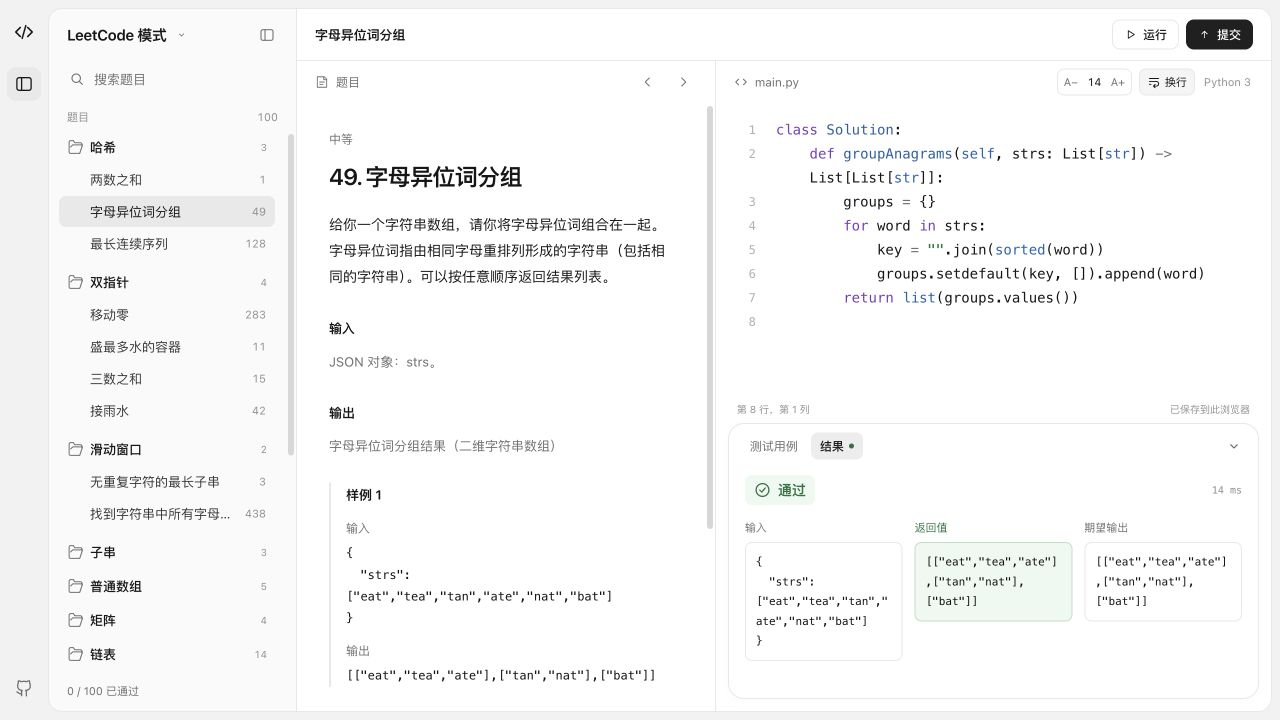
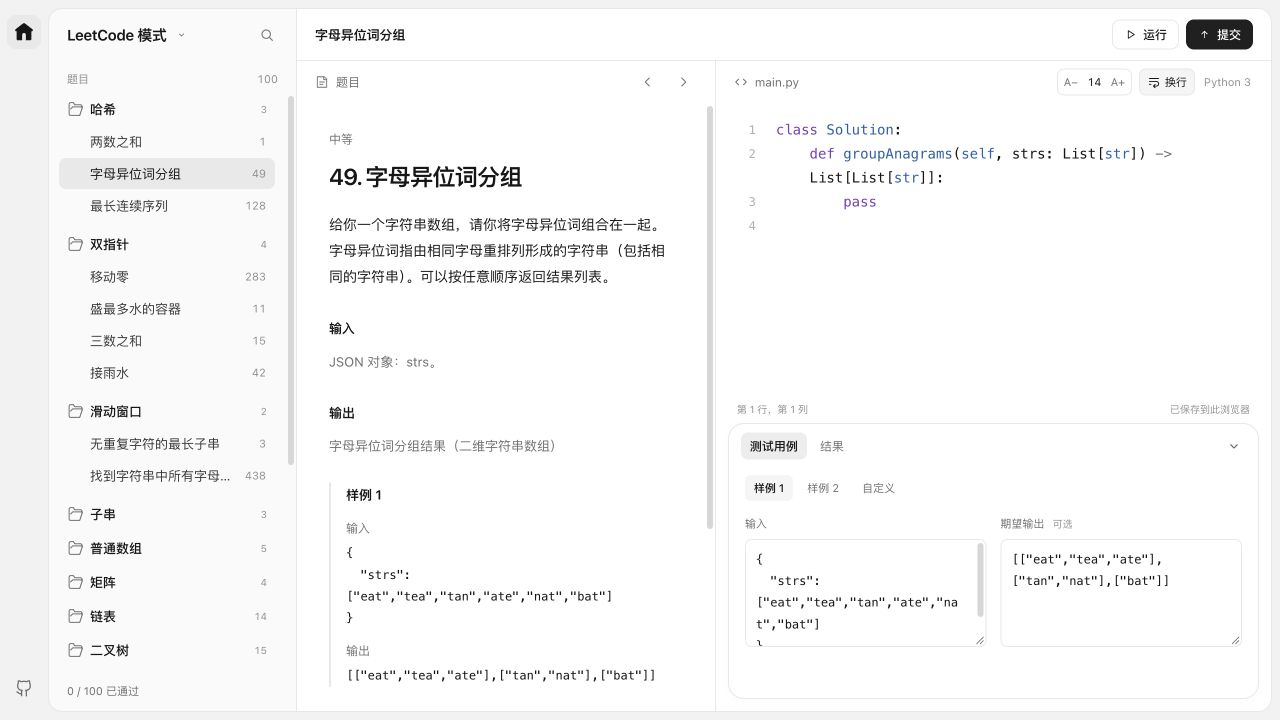
Update Site source

diff --git a/dist/app.js b/dist/app.js
@@ -110,10 +110,9 @@ initLayout({ read, save, mobileLayout, refreshEditor: () => editor.refresh() });
 function syncSidebar() {
   const open = mobileLayout.matches ? $('appShell').classList.contains('sidebar-open') : !$('appShell').classList.contains('sidebar-collapsed');
   const sidebar = $('sidebar');
-  if (!open && sidebar.contains(document.activeElement)) (mobileLayout.matches ? $('openSidebar') : $('railToggle')).focus();
+  if (!open && sidebar.contains(document.activeElement)) (mobileLayout.matches ? $('openSidebar') : $('homeButton')).focus();
   sidebar.inert = !open;
   sidebar.setAttribute('aria-hidden', String(!open));
-  $('railToggle').setAttribute('aria-expanded', String(open));
   $('openSidebar').setAttribute('aria-expanded', String(open));
   if (!open) closeModeMenu();
 }
@@ -125,6 +124,20 @@ function setSidebar(open) {
   }
   syncSidebar();
   if (matchMedia('(prefers-reduced-motion: reduce)').matches) editor.refresh();
+}
+function setSearchOpen(open, restoreFocus = false) {
+  if (!open && (restoreFocus || $('searchField').contains(document.activeElement))) $('searchButton').focus();
+  $('searchField').hidden = !open;
+  $('searchButton').setAttribute('aria-expanded', String(open));
+  if (open) {
+    closeModeMenu();
+    $('searchInput').focus();
+  } else if ($('searchInput').value) {
+    $('searchInput').value = '';
+    searchCollapsedGroups.clear();
+    renderList();
+    requestAnimationFrame(revealCurrentProblem);
+  }
 }
 function clearErrorLine() {
   if (state.errorLine !== null) editor.removeLineClass(state.errorLine, 'background', 'code-error-line');
@@ -203,7 +216,13 @@ function revealCurrentProblem() {
   else if (inner.bottom > outer.bottom) list.scrollTop += inner.bottom - outer.bottom;
 }
 function selectProblem(id, force = false) {
-  const base = state.problems.find(x => x.id === Number(id)); if (!base || (!force && state.current?.id === base.id)) return;
+  const base = state.problems.find(x => x.id === Number(id));
+  if (!base) return;
+  if (!force && state.current?.id === base.id) {
+    setSearchOpen(false);
+    if (mobileLayout.matches) setSidebar(false);
+    return;
+  }
   const p = state.mode === 'leetcode' ? getLeetCodeProblem(base) : base;
   if (state.current) persistCode();
   if (state.busy) stop();
@@ -224,7 +243,10 @@ function selectProblem(id, force = false) {
   const url = new URL(location.href); url.searchParams.set('problem', p.id); url.searchParams.set('mode', state.mode); history.replaceState(null, '', url);
   document.title = `${p.title} · Hot 100`;
   $('workspaceTitle').textContent = p.title;
-  if (!force && mobileLayout.matches) setSidebar(false);
+  if (!force) {
+    setSearchOpen(false);
+    if (mobileLayout.matches) setSidebar(false);
+  }
   requestAnimationFrame(() => { editor.refresh(); revealCurrentProblem(); });
 }
 function renderCaseTabs() {
@@ -334,6 +356,13 @@ $('searchInput').addEventListener('input', () => {
   searchCollapsedGroups.clear(); renderList();
   if (!$('searchInput').value.trim()) requestAnimationFrame(revealCurrentProblem);
 });
+$('searchButton').addEventListener('click', () => setSearchOpen($('searchField').hidden, true));
+$('homeButton').addEventListener('click', () => {
+  closeModeMenu();
+  setSearchOpen(false);
+  setSidebar(true);
+  requestAnimationFrame(() => { $('problemList').scrollTop = 0; });
+});
 $('fontDecrease').addEventListener('click', () => changeEditorFont(-1));
 $('fontIncrease').addEventListener('click', () => changeEditorFont(1));
 $('wrapCode').addEventListener('click', () => { wrapCode = !wrapCode; save('leetcode:wrapCode', String(wrapCode)); applyEditorPreferences(); });
@@ -362,8 +391,6 @@ $('runButton').addEventListener('click', () => execute(false)); $('submitButton'
 $('inputTab').addEventListener('click', () => { setTab('input'); expandPanel(); }); $('resultTab').addEventListener('click', () => { setTab('result'); expandPanel(); });
 $('prevProblem').addEventListener('click', () => selectProblem(state.problems[state.problems.findIndex(p => p.id === state.current.id) - 1]?.id));
 $('nextProblem').addEventListener('click', () => selectProblem(state.problems[state.problems.findIndex(p => p.id === state.current.id) + 1]?.id));
-$('railToggle').addEventListener('click', () => setSidebar($('appShell').classList.contains('sidebar-collapsed')));
-$('closeSidebar').addEventListener('click', () => setSidebar(false));
 $('openSidebar').addEventListener('click', () => setSidebar(true));
 $('sidebarBackdrop').addEventListener('click', () => setSidebar(false));
 $('panelToggle').addEventListener('click', () => {
@@ -377,7 +404,14 @@ $('panelResizer').addEventListener('pointerup', () => { drag = null; });
 $('panelResizer').addEventListener('pointercancel', () => { drag = null; });
 $('panelResizer').addEventListener('keydown', e => { if (['ArrowUp', 'ArrowDown'].includes(e.key)) { e.preventDefault(); expandPanel(); setPanelHeight($('testPanel').getBoundingClientRect().height + (e.key === 'ArrowUp' ? 24 : -24)); } });
 function setPanelHeight(value) { const height = Math.max(180, Math.min(value, Math.max(200, innerHeight - 240))); $('testPanel').style.setProperty('--panel-height', `${height}px`); editor.refresh(); }
-document.addEventListener('keydown', e => { if (e.key === 'Escape') { closeModeMenu(true); if (mobileLayout.matches) setSidebar(false); } if ((e.metaKey || e.ctrlKey) && e.key === 's') { e.preventDefault(); persistCode(); } });
+document.addEventListener('keydown', e => {
+  if (e.key === 'Escape') {
+    if (!$('modeMenu').hidden) closeModeMenu(true);
+    else if (!$('searchField').hidden) setSearchOpen(false, true);
+    else if (mobileLayout.matches) setSidebar(false);
+  }
+  if ((e.metaKey || e.ctrlKey) && e.key === 's') { e.preventDefault(); persistCode(); }
+});
 window.addEventListener('resize', () => { syncSidebar(); editor.refresh(); });
 $('appShell').addEventListener('transitionend', e => { if (e.target === $('appShell') && e.propertyName === 'grid-template-columns') editor.refresh(); });
 

diff --git a/dist/styles.css b/dist/styles.css
@@ -57,21 +57,16 @@ button svg, .icon-button svg { width: 16px; height: 16px; flex: none; stroke-wid
 .statement-resizer { top: 0; bottom: 0; left: var(--statement-width, 43%); }
 .sidebar-collapsed .sidebar-resizer { display: none; }
 .app-rail { display: flex; flex-direction: column; align-items: center; gap: 9px; padding: 7px 0; color: var(--secondary); }
-.rail-brand { display: flex; align-items: center; justify-content: center; width: 34px; height: 34px; margin-bottom: 9px; color: var(--text); }
-.rail-brand svg { width: 22px; height: 22px; stroke-width: 1.65; }
 .app-rail .icon-button, .rail-github { display: flex; align-items: center; justify-content: center; width: 34px; height: 34px; border-radius: 9px; color: var(--secondary); text-decoration: none; }
 .app-rail .icon-button svg, .rail-github svg { width: 19px; height: 19px; stroke-width: 1.65; }
 .app-rail .icon-button:hover, .rail-github:hover { color: var(--text); background: var(--hover); }
-.app-rail .icon-button[aria-expanded="true"] { color: var(--text); background: var(--selected); }
-.app-shell:not(.sidebar-collapsed) .rail-toggle { color: var(--text); background: var(--selected); }
+.app-rail .rail-home[aria-current="page"] { color: var(--text); background: var(--selected); }
+.app-rail .rail-home svg { width: 22px; height: 22px; fill: currentColor; stroke: none; }
 .rail-github { margin-top: auto; }
 .sidebar { position: relative; min-width: 0; display: flex; flex-direction: column; overflow: hidden; background: var(--sidebar); border: 1px solid var(--line); border-right: 0; border-radius: 14px 0 0 14px; }
 .sidebar > * { flex-shrink: 0; transition: opacity 180ms ease, transform var(--sidebar-duration) var(--sidebar-easing); }
 .sidebar-head, .sidebar-section-label, .problem-list, .sidebar-footer { width: calc(var(--sidebar-width) - 1px); }
 .sidebar-head { height: 52px; min-height: 52px; display: flex; align-items: center; gap: 8px; padding: 0 15px 0 18px; }
-.brand-mark { display: inline-flex; align-items: center; justify-content: center; width: 21px; height: 24px; color: var(--text); }
-.brand-mark svg { width: 19px; height: 19px; stroke-width: 1.6; }
-.brand-name { font-size: 15px; font-weight: 600; letter-spacing: -.25px; }
 .sidebar-head { position: relative; z-index: 2; }
 .mode-switch { position: relative; min-width: 0; flex: 1; margin-left: -7px; }
 .mode-button { display: inline-flex; align-items: center; gap: 8px; max-width: 100%; min-height: 32px; padding: 5px 7px; border: 0; border-radius: 7px; color: var(--text); background: transparent; font-size: 15px; font-weight: 600; letter-spacing: -.25px; white-space: nowrap; transition: background .12s; }
@@ -87,13 +82,15 @@ button svg, .icon-button svg { width: 16px; height: 16px; flex: none; stroke-wid
 .sidebar-head .icon-button { flex: none; margin-left: auto; }
 .icon-button { display: inline-flex; align-items: center; justify-content: center; gap: 5px; width: 28px; height: 28px; padding: 6px; border: 0; border-radius: 7px; color: var(--secondary); background: transparent; transition: background .12s, color .12s; }
 .icon-button:hover { color: var(--text); background: var(--hover); }
-.search-field { display: flex; align-items: center; gap: 9px; width: calc(var(--sidebar-width) - 21px); height: 32px; min-height: 32px; margin: 2px 10px 12px; padding: 0 9px; border: 1px solid transparent; border-radius: 7px; color: var(--secondary); background: transparent; transition: background .12s, opacity 180ms ease, transform var(--sidebar-duration) var(--sidebar-easing); }
+#searchButton[aria-expanded="true"] { color: var(--text); background: var(--selected); }
+.search-field { display: flex; align-items: center; gap: 9px; width: calc(var(--sidebar-width) - 21px); height: 32px; min-height: 32px; margin: 2px 10px 8px; padding: 0 9px; border: 1px solid transparent; border-radius: 7px; color: var(--secondary); background: transparent; transition: background .12s, opacity 180ms ease, transform var(--sidebar-duration) var(--sidebar-easing); }
 .search-field:hover, .search-field:focus-within { background: var(--hover); }
 .search-field svg { width: 16px; height: 16px; stroke-width: 1.65; flex: none; }
 .search-field input { width: 100%; min-width: 0; padding: 0; border: 0; outline: 0; color: var(--text); background: transparent; font-size: 13px; }
 .search-field input:focus-visible { outline: 0; }
 .search-field input::placeholder { color: var(--secondary); opacity: 1; }
 .sidebar-section-label { display: flex; align-items: center; justify-content: space-between; gap: 12px; padding: 0 18px 4px; color: var(--muted); font-size: 11px; line-height: 20px; }
+.search-field[hidden] + .sidebar-section-label { padding-top: 8px; }
 .sidebar-section-label span { font-size: 11px; font-variant-numeric: tabular-nums; }
 .problem-list { flex: 1; min-height: 0; overflow: auto; padding: 0 10px 12px; }
 .problem-group + .problem-group { margin-top: 2px; }

diff --git a/dist/index.html b/dist/index.html
@@ -8,13 +8,12 @@
   <title>Hot 100</title>
   <link rel="icon" href="./favicon.svg" type="image/svg+xml">
   <link rel="stylesheet" href="./vendor/codemirror/lib/codemirror.css">
-  <link rel="stylesheet" href="./styles.css?v=5">
+  <link rel="stylesheet" href="./styles.css?v=6">
 </head>
 <body>
   <div class="app-shell" id="appShell">
     <nav class="app-rail" aria-label="导航">
-      <div class="rail-brand" aria-hidden="true"><svg viewBox="0 0 24 24"><path d="m8 7-5 5 5 5m8-10 5 5-5 5M14 5l-4 14"/></svg></div>
-      <button class="icon-button rail-toggle" id="railToggle" aria-label="切换题目列表" title="题目列表"><svg viewBox="0 0 24 24"><rect x="3" y="4" width="18" height="16" rx="3"/><path d="M9 4v16"/></svg></button>
+      <button class="icon-button rail-home" id="homeButton" aria-label="主页" aria-current="page" title="主页"><svg viewBox="0 0 24 24" aria-hidden="true"><path d="M10.8 2.8a2 2 0 0 1 2.4 0l8 6.2a1.25 1.25 0 0 1-.77 2.24H20V20a1 1 0 0 1-1 1h-5v-6a2 2 0 0 0-4 0v6H5a1 1 0 0 1-1-1v-8.76h-.43A1.25 1.25 0 0 1 2.8 9Z"/></svg></button>
       <a class="rail-github" id="repoLink" href="https://github.com/Tianchenggg/hot100-python" target="_blank" rel="noreferrer" aria-label="GitHub 源码" title="GitHub 源码"><svg viewBox="0 0 24 24"><path d="M9 19c-4 1-4-2-6-2m12 5v-4a3.5 3.5 0 0 0-1-3c3 0 6-1.5 6-6a4.6 4.6 0 0 0-1-3c.4-1 .4-2-.1-3 0 0-1.1-.3-3.4 1a12 12 0 0 0-7 0C6.2 2.7 5 3 5 3c-.5 1-.5 2-.1 3a4.6 4.6 0 0 0-1 3c0 4.5 3 6 6 6a3.5 3.5 0 0 0-1 3v4"/></svg></a>
     </nav>
     <aside class="sidebar" id="sidebar" aria-label="题目列表">
@@ -26,9 +25,9 @@
             <button class="mode-option" role="menuitemradio" aria-checked="false" data-mode="leetcode" tabindex="-1">LeetCode 模式</button>
           </div>
         </div>
-        <button class="icon-button" id="closeSidebar" aria-label="收起题目列表" title="收起题目列表"><svg viewBox="0 0 24 24"><rect x="3" y="4" width="18" height="16" rx="3"/><path d="M9 4v16"/></svg></button>
+        <button class="icon-button" id="searchButton" aria-label="搜索题目" aria-expanded="false" aria-controls="searchField" title="搜索题目"><svg viewBox="0 0 24 24" aria-hidden="true"><circle cx="10.8" cy="10.8" r="6.3"/><path d="m16 16 4 4"/></svg></button>
       </div>
-      <label class="search-field"><svg viewBox="0 0 24 24" aria-hidden="true"><circle cx="10.8" cy="10.8" r="6.3"/><path d="m16 16 4 4"/></svg><input id="searchInput" type="search" placeholder="搜索题目" aria-label="搜索题号、标题或知识点" autocomplete="off"></label>
+      <label class="search-field" id="searchField" hidden><svg viewBox="0 0 24 24" aria-hidden="true"><circle cx="10.8" cy="10.8" r="6.3"/><path d="m16 16 4 4"/></svg><input id="searchInput" type="search" placeholder="搜索题目" aria-label="搜索题号、标题或知识点" autocomplete="off"></label>
       <div class="sidebar-section-label">题目<span>100</span></div>
       <div class="problem-list" id="problemList"><div class="empty-result">正在加载…</div></div>
       <div class="sidebar-footer"><span id="progressText">0 / 100 已通过</span></div>
@@ -65,6 +64,6 @@
   <script src="./vendor/codemirror/lib/codemirror.js"></script>
   <script src="./vendor/codemirror/mode/python/python.js"></script>
   <script src="./vendor/codemirror/addon/edit/matchbrackets.js"></script>
-  <script type="module" src="./app.js?v=5"></script>
+  <script type="module" src="./app.js?v=6"></script>
 </body>
 </html>
